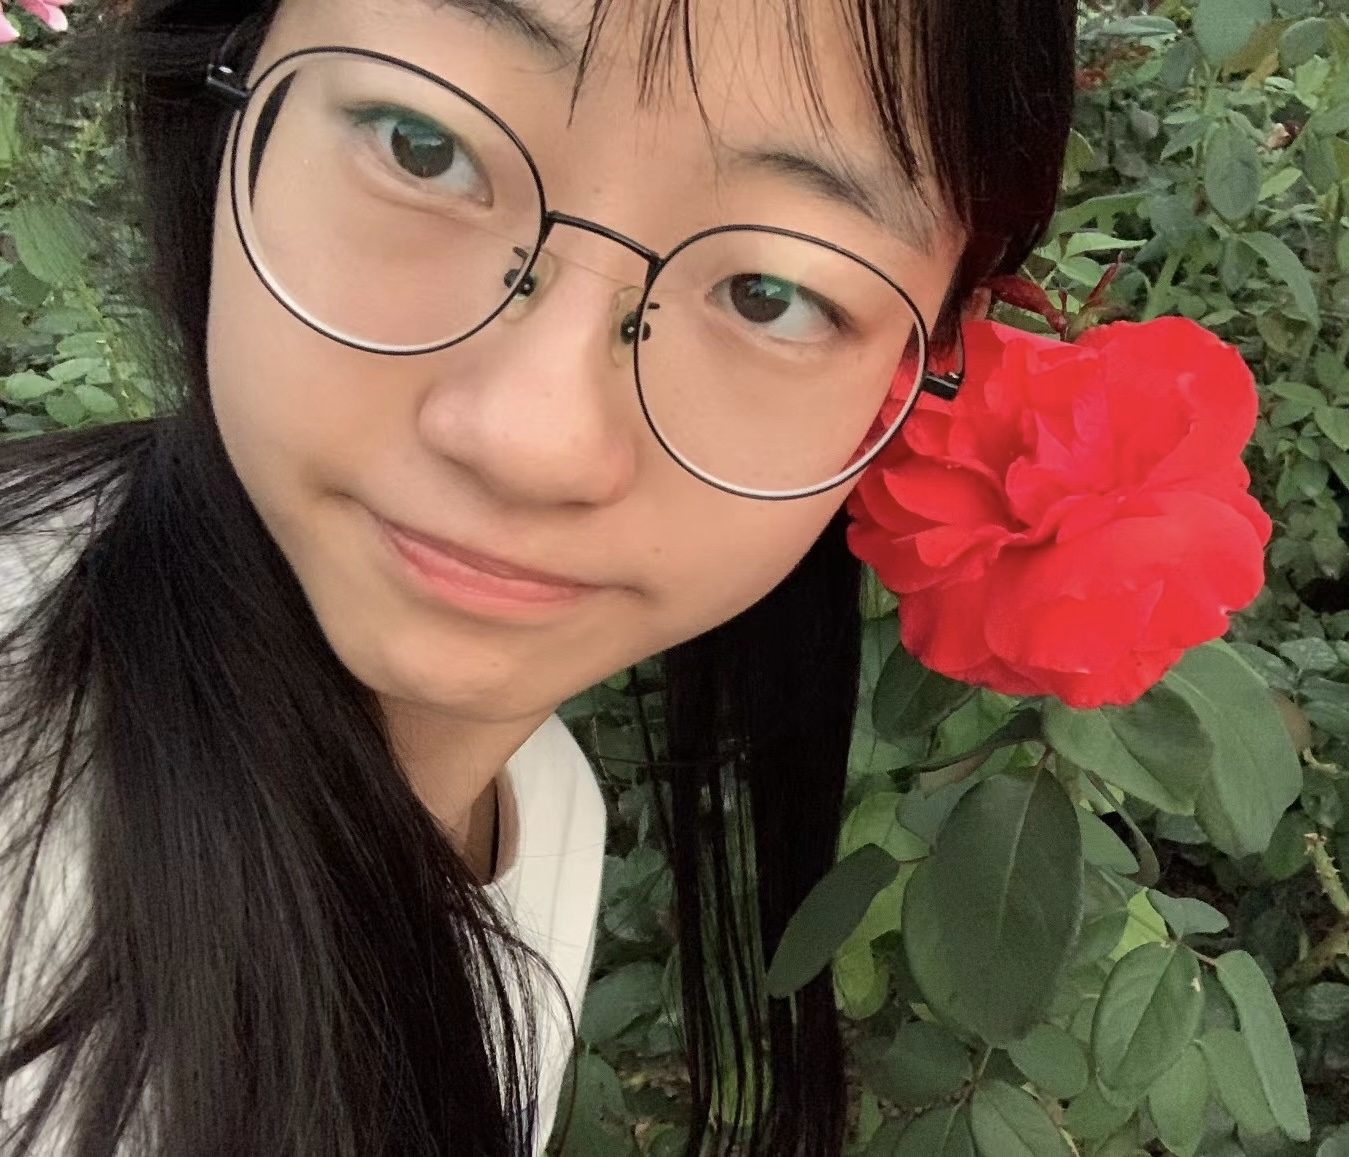
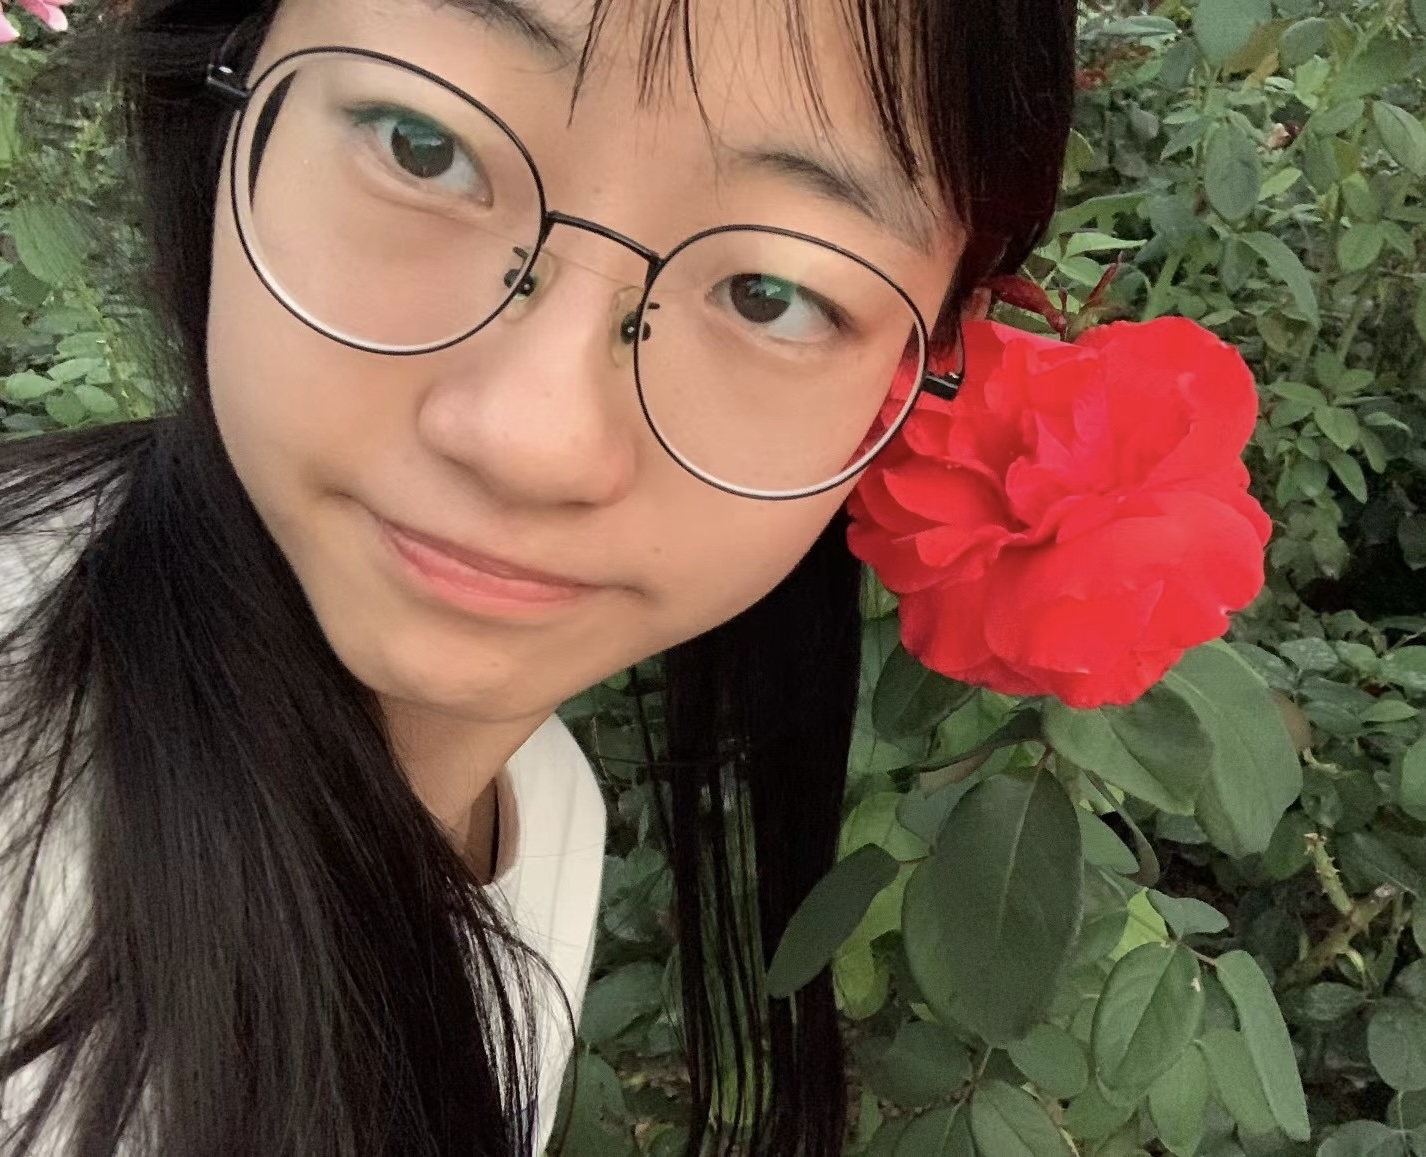
Change the photo from round to square.

diff --git a/_sass/_sidebar.scss b/_sass/_sidebar.scss
@@ -91,7 +91,7 @@
 
   img {
     max-width: 175px;
-    border-radius: 50%;
+
 
     @include breakpoint($large) {
       padding: 5px;
